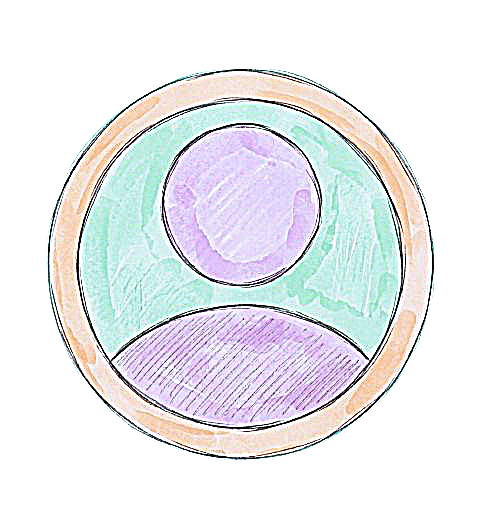
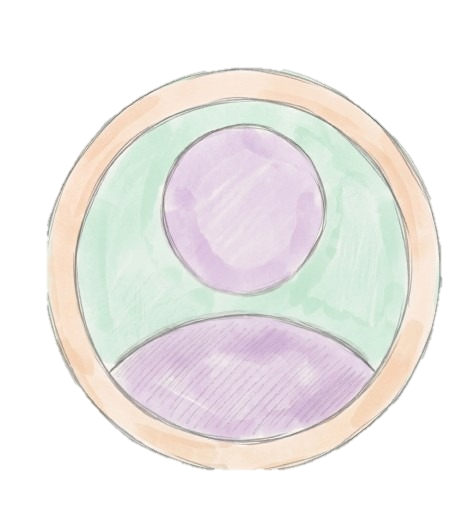
mfy

diff --git a/Assets/JavaScript/account-script.js b/Assets/JavaScript/account-script.js
@@ -40,18 +40,13 @@ function drawAllCharts() {
 
 
   // Chart 1: NumGuess Pro
-if (guessData.fewest > 0) {
+
         makeBarChart('piechart1', 'NumGuess Statistics', [
-            ['Type', 'Amount', { role: 'style' }],
+            ['Stats', 'Amount', { role: 'style' }],
             ['Fewest Attempts', guessData.fewest, '#06d6a0'],
             ['Total Played', guessData.played, '#ffd166']
         ]);
-    } else {
-        makeBarChart('piechart1', 'NumGuess Statistics', [
-            ['Type', 'Amount', { role: 'style' }],
-            ['Total Played', guessData.played, '#ffd166']
-        ]);
-    }
+    
 
     // Chart 2: Whack-a-Mole
     makeBarChart('piechart2', 'Whack-a-Mole Stats', [
@@ -73,11 +68,9 @@ if (guessData.fewest > 0) {
     ]);
 
    // Chart 4: Rock Paper Scissors
-   let tiesCount = rpsData.played - (rpsData.wins + rpsData.losses);
-   makePieChart('piechart4', 'Match Results', ['#90c2e7', '#ef476f', '#ffd166'], [
-       ['Result', 'Amount'],
+   makePieChart('piechart4', 'Match Stats', ['#90c2e7', '#ef476f'], [
+       ['Stats', 'Amount'],
        ['Wins', rpsData.wins],
-       ['Losses', rpsData.losses],
-       ['Ties', tiesCount > 0 ? tiesCount : 0]
+       ['Losses', rpsData.losses]
     ]);
 }

diff --git a/Actions/login-signup.php b/Actions/login-signup.php
@@ -6,15 +6,5 @@ Session::start();
 if ($_SERVER['REQUEST_METHOD'] === 'POST') {
     $username = $_POST['username'];
     $password = $_POST['password'];
-
-    if ($username === "admin" && $password === "1234") {
-        Session::set('isLoggedIn', true);
-        Session::set('username', $username);
-        
-        header('Location: ../index.php');
-        exit();
-    } else {
-        $error = "Username or password is incorrect!";
-    }
 }
 ?>

diff --git a/Pages/login-signup.php b/Pages/login-signup.php
@@ -59,7 +59,7 @@ if (isset($_POST['signup'])) {
     if ($check->num_rows > 0) {
         $error_signup = "Username already taken!";
     } else {
-        $hashed = password_hash($password, PASSWORD_DEFAULT);
+        $hashed = password_hash($password, PASSWORD_ARGON2ID);
         $insert = $conn->prepare("INSERT INTO users (username, email, password) VALUES (?, ?, ?)");
         $insert->bind_param("sss", $username, $email, $hashed);
 

diff --git a/Pages/MyAccount.php b/Pages/MyAccount.php
@@ -72,7 +72,7 @@ $rpsData = $rpsObj->getStats($current_user_id);
 
     <div class="profile-tags-container">
         <div class="tag paper-box">
-            <img src="../Assets/Media/MyAccount1.png" alt="Profile" class="tag-icon">
+            <img src="../Assets/Media/MyAccount_Icont.png" alt="Profile" class="tag-icon">
             <?php echo $display_name; ?>
         </div>
         
